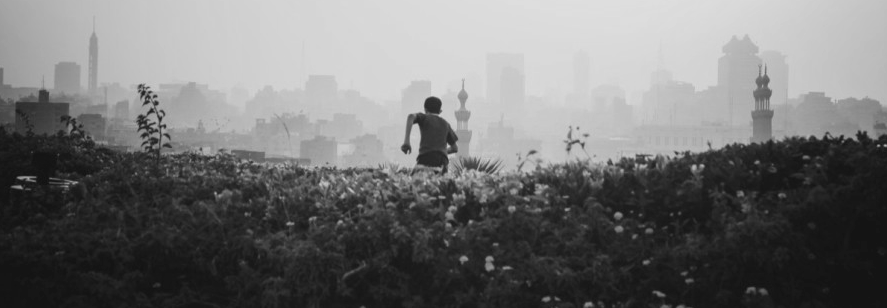
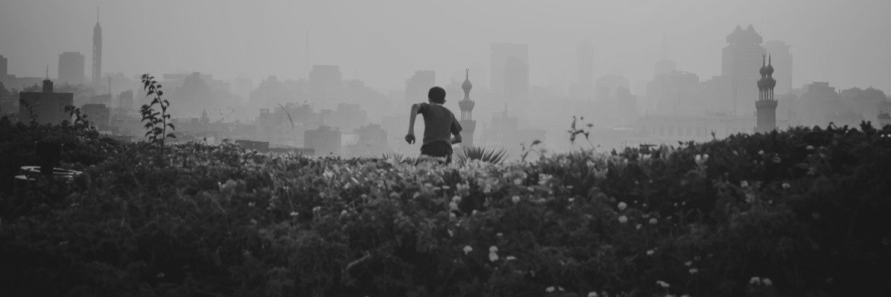
Pruchase, Form, Contact all in 1 div

diff --git a/rangeeli_sham/index.html b/rangeeli_sham/index.html
@@ -41,7 +41,7 @@
 			<a href="#home" class="smoothScroll">Home</a>
 			<a href="#about" class="smoothScroll">About</a>
 			<a href="#highlights" class="smoothScroll">Highlights</a>
-			<a href="#contact" class="smoothScroll">Questions?</a>
+			<a href="#tickets" class="smoothScroll">Tickets</a>
 			<a href="https://www.facebook.com/events/416140641897054/"><i class="icon-facebook"></i></a>
 			<a href="mailto:aelahi@scu.edu&cc=pbheda@scu.edu"><i class="icon-envelope"></i></a>
 		</div>
@@ -99,7 +99,8 @@
 			<div class="row centered">
 				<h3>SOME HIGHLIGHTS FROM LAST YEAR</h3>
 				<p class="centered"><i class="icon icon-circle"></i><i class="icon icon-circle"></i><i class="icon icon-circle"></i></p>
-				
+
+
 				<div class="col-lg-6 col-lg-offset-3">
 					<div id="carousel-example-generic" class="carousel slide" data-ride="carousel">
 						<!-- Wrapper for slides -->
@@ -126,7 +127,7 @@
 						<br>
 						<br>
 						<br>
-						<br>
+						<!--<br>-->
 						<ol class="carousel-indicators">
 						    <li data-target="#carousel-example-generic" data-slide-to="0" class="active"></li>
 						    <li data-target="#carousel-example-generic" data-slide-to="1"></li>
@@ -134,43 +135,54 @@
 						    <!-- <li data-target="#carousel-example-generic" data-slide-to="3"></li> -->
 						</ol>
 					</div>
-				</div><!-- col-lg-8 -->
+				</div><!-- col-lg-8 --> 
 			</div><!-- row -->
 		</div><!-- container -->
 	</div>	<!-- f -->
 
-	<!-- ========== CONTACT SECTION ========== -->
+	<!-- ========== TICKET SECTION ========== -->
 
-	<section id="register" name="register"></section>
-	<div id="f">
-		<div class="container">
-			<div class="row">
-				<iframe src="https://docs.google.com/forms/d/1009laWtVeRca9XVke4ovQcmdQq6PNll12AcwexnNYoE/viewform?embedded=true" width="522" height="572" frameborder="0" marginheight="0" marginwidth="0">Loading...</iframe>
-			</div>
-		</div>
-	</div>
+	<section id="tickets" name="tickets"></section>
+		<div id="f">
+			<div class="container">
+				<div class="row">
+					<h3>TICKETS</h3>
+					<p class="centered"><i class="icon icon-circle"></i><i class="icon icon-circle"></i><i class="icon icon-circle"></i></p>
+					<div class="row vertical-align hcenter">
+					<div class="col-md-6">
+						<h2><u>PURCHASING TICKETS</h2></u><br />
 
+						<p> Fill out the form to your right just so we can have your tickets on record! </p><br /><br />
 
+						<p> Purchasing tickets this year is a little bit different. In order to have everything logged, all transactions will be logged not only with your physical ticket, but also through a Google form and in our records. For payment, you or your liason can pay either <b> Arman Elahi </b> or <b>Pranav Bheda</b> in cash or through Venmo and we'll have your ticket delivered to you.</p><br />
 
+						<p class="centered"><i class="icon icon-circle"></i><i class="icon icon-circle"></i><i class="icon icon-circle"></i></p>
 
-	<section id="contact" name="contact"></section>
-	<div id="f">
-		<div class="container">
-			<div class="row">
-				<h3>TICKET PRICES</h3>
-				<p class="centered"><i class="icon icon-circle"></i><i class="icon icon-circle"></i><i class="icon icon-circle"></i></p>
-				
-				<div class="col-lg-6 col-lg-offset-3">
-					<p> Pre-Sale 	(3/26-4/3) 	$8</p>
-					<p> Regular		(4/4-4/10) 	$10</p>
-					<p> At the door	(4/10)	  	$12</p>
-					<p>For information on tickets, sales, and what it goes towards, contact either <a href="mailto:aelahi@scu.edu?subject=Rangeeli Sham Tickets">Arman Elahi</a> or <a href="mailto:pbheda@scu.edu?subject=Rangeeli Sham Tickets">Pranav Bheda!</a>
+						<p> Pre-Sale 	(3/26-4/3) 	$8</p>
+						<p> Regular		(4/4-4/10) 	$10</p>
+						<p> At the door	(4/10)	  	$12</p> <br />
+						<p class="centered"><i class="icon icon-circle"></i><i class="icon icon-circle"></i><i class="icon icon-circle"></i></p>
+
+						<p>For information on tickets, the show, or how you can contribute, contact either <a href="mailto:aelahi@scu.edu?subject=Rangeeli Sham Tickets">Arman Elahi</a> or <a href="mailto:pbheda@scu.edu?subject=Rangeeli Sham Tickets">Pranav Bheda!</a>
+					</div>
+					<div class="col-md-6">
+						<iframe src="https://docs.google.com/forms/d/1009laWtVeRca9XVke4ovQcmdQq6PNll12AcwexnNYoE/viewform?embedded=true" width="522" height="1000" frameborder="0" marginheight="0" marginwidth="0">Loading...</iframe>
+					</div>
+				</div>
 				</div>
 			</div>
 		</div>
-	</div>
 
-	
+<!-- 	<section id="register" name="register"></section>
+	<div id="f">
+		<div class="container">
+			<div class="row">
+				<h3>PURCHASING TICKETS</h3>
+				<iframe src="https://docs.google.com/forms/d/1009laWtVeRca9XVke4ovQcmdQq6PNll12AcwexnNYoE/viewform?embedded=true" width="522" height="572" frameborder="0" marginheight="0" marginwidth="0">Loading...</iframe>
+			</div>
+		</div>
+	</div>	 -->
+
 
     <!-- Bootstrap core JavaScript
     ================================================== -->

diff --git a/rangeeli_sham/assets/css/main.css b/rangeeli_sham/assets/css/main.css
@@ -79,7 +79,7 @@ a:after {
    ========================================================================== */
 
 #headerwrap {
-	background: url(../img/background.jpg) no-repeat center top ;
+	background: url(../img/background.png) no-repeat center top ;
 	margin-top: -10px;
 	padding-top:20px;
 	text-align:center;
@@ -311,4 +311,13 @@ a:after {
 			transition: all .1s ease-in-out;
 }
 
+.hcenter {
+    display: inline-block;
+    horizontal-align: middle;
+    float: none;
+}
 
+.vertical-align {
+    display: flex;
+    align-items: center;
+}

diff --git a/rangeeli_sham/assets/js/bootstrap.js b/rangeeli_sham/assets/js/bootstrap.js
@@ -312,7 +312,7 @@ if (!jQuery) { throw new Error("Bootstrap requires jQuery") }
   }
 
   Carousel.DEFAULTS = {
-    interval: 'pause'
+    interval: false
   , pause: 'hover'
   , wrap: true
   }
